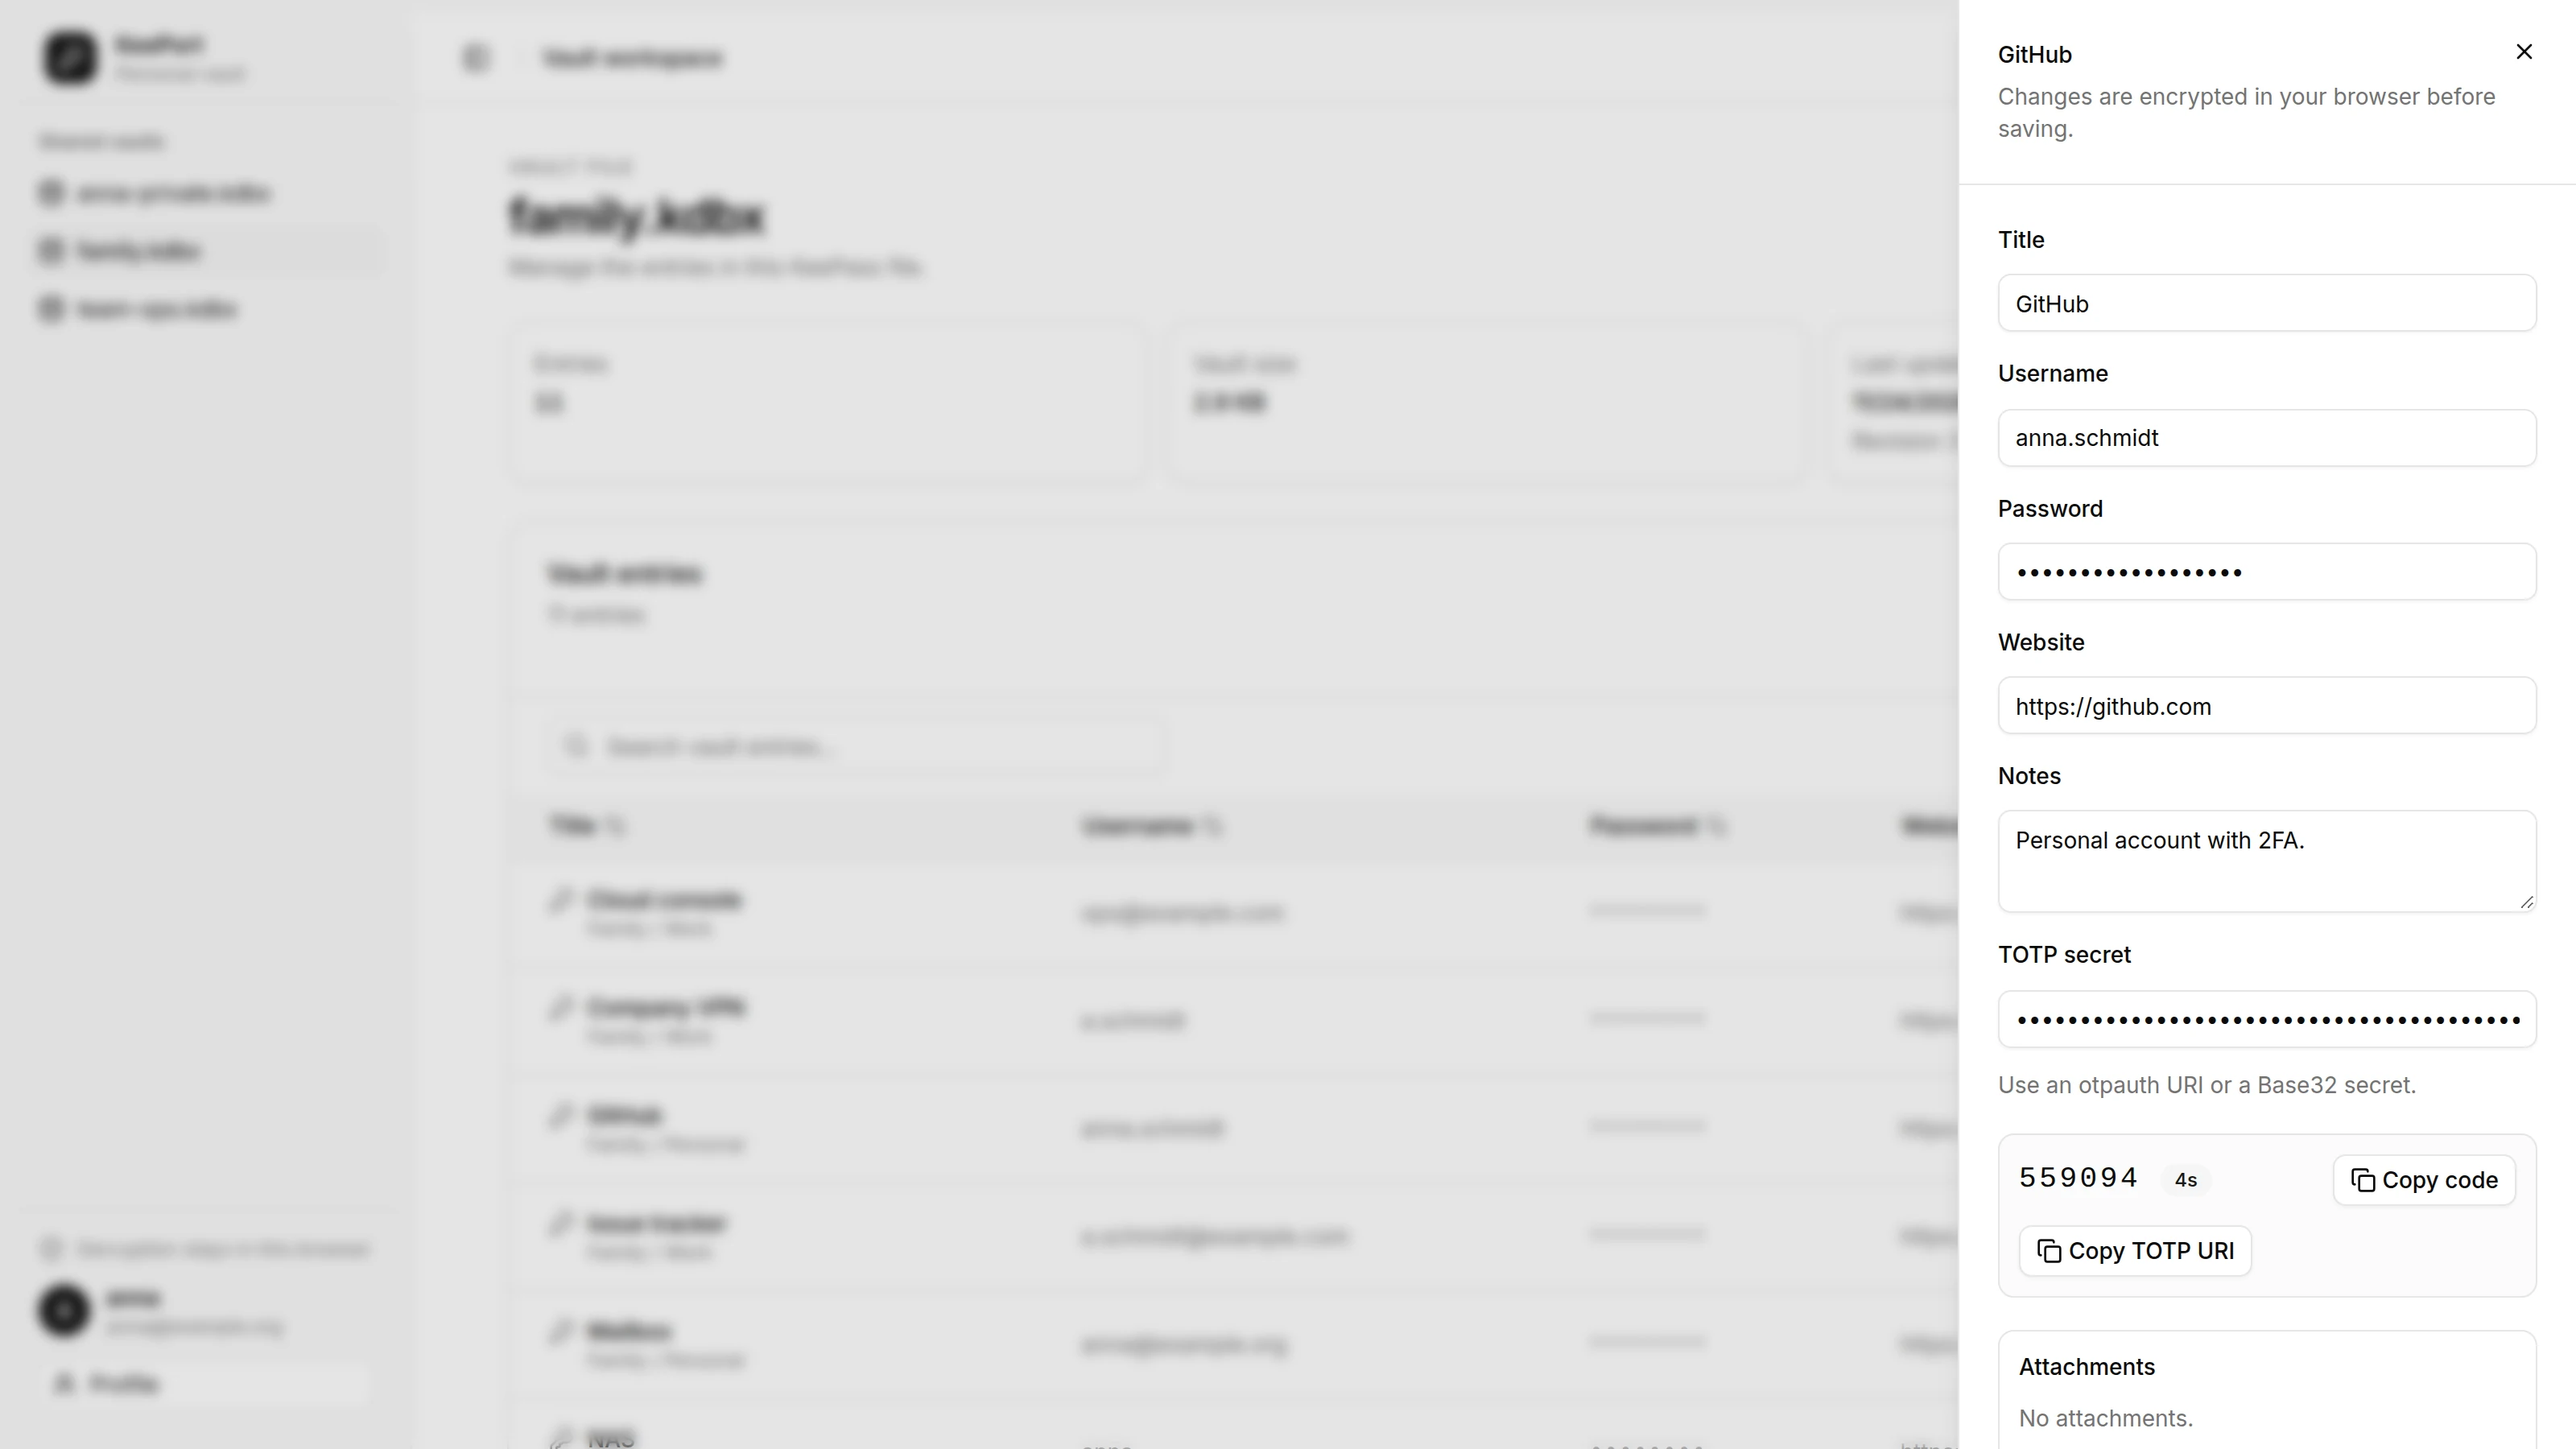
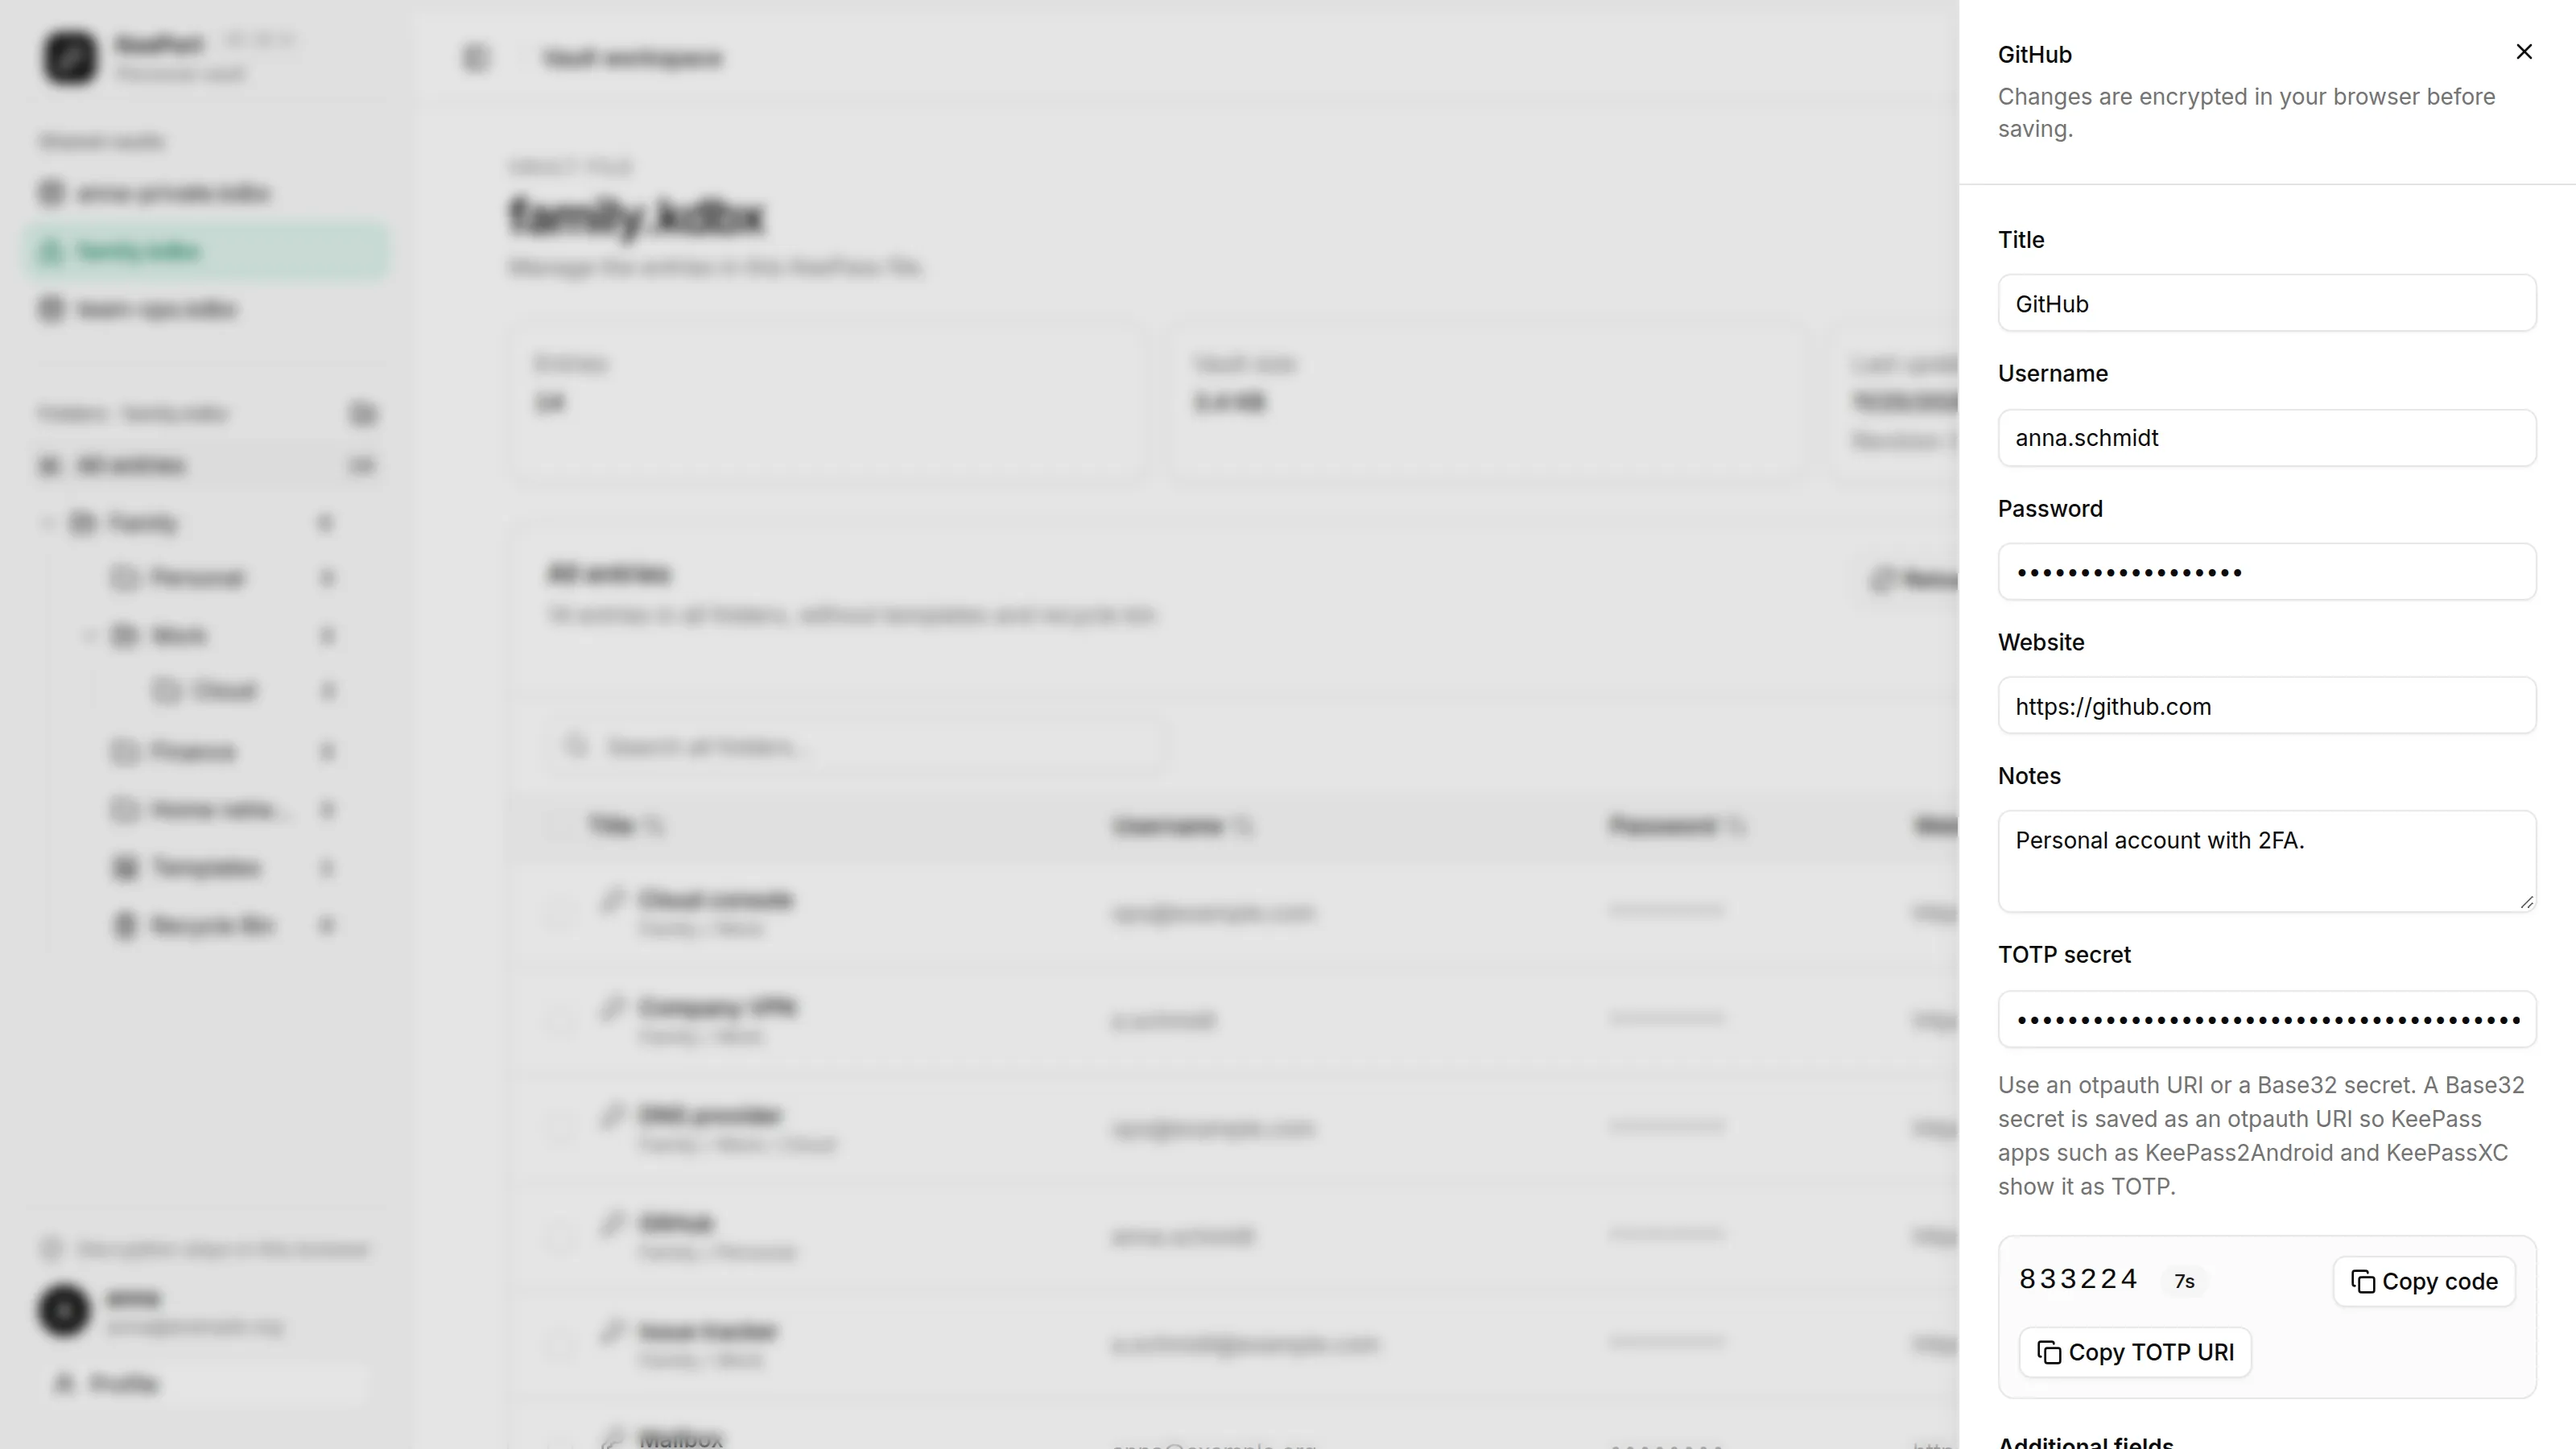
docs: refresh README screenshots and close the dashboard plan

diff --git a/README.md b/README.md
@@ -17,7 +17,7 @@
 
 <picture>
   <source media="(prefers-color-scheme: dark)" srcset="docs/images/vault-entries-dark.webp">
-  <img src="docs/images/vault-entries-light.webp" alt="KeePort web vault showing the unlocked family.kdbx with its entries" width="100%">
+  <img src="docs/images/vault-entries-light.webp" alt="KeePort web vault with the unlocked family.kdbx, its folder tree and entries" width="100%">
 </picture>
 
 </div>
@@ -61,6 +61,22 @@ KeePass files are great: open format, strong encryption, dozens of apps. Keeping
         <img src="docs/images/vault-entry-light.webp" alt="Entry details with live TOTP code, decrypted only in the browser">
       </picture>
       <p align="center"><b>Entry details & TOTP</b><br><sub>Edit entries and copy one-time codes — decrypted only in your browser.</sub></p>
+    </td>
+    <td width="50%">
+      <picture>
+        <source media="(prefers-color-scheme: dark)" srcset="docs/images/vault-card-dark.webp">
+        <img src="docs/images/vault-card-light.webp" alt="A KeePass2Android credit card with its template fields">
+      </picture>
+      <p align="center"><b>Templates & custom fields</b><br><sub>Credit cards and other KeePass2Android templates show their own fields.</sub></p>
+    </td>
+  </tr>
+  <tr>
+    <td width="50%">
+      <picture>
+        <source media="(prefers-color-scheme: dark)" srcset="docs/images/admin-dashboard-dark.webp">
+        <img src="docs/images/admin-dashboard-light.webp" alt="Admin dashboard with status, sign-ins and WebDAV activity">
+      </picture>
+      <p align="center"><b>Admin dashboard</b><br><sub>Status, storage, sign-ins and sync activity at a glance.</sub></p>
     </td>
     <td width="50%">
       <picture>

diff --git a/docs/plans/closed/2026-11-23-admin-dashboard.md b/docs/plans/closed/2026-11-23-admin-dashboard.md
@@ -1,7 +1,7 @@
 # KeePort – Plan: Admin-Dashboard
 
 - **Datum:** 2026-11-23
-- **Status:** umgesetzt (2026-11-25), Zielversion 0.10.0, Abnahme auf der NAS ausstehend
+- **Status:** abgeschlossen (2026-11-25), ausgeliefert in 0.10.0
 - **Ziel:** Nach dem Admin-Login auf einen Blick sehen, ob KeePort erreichbar ist, welcher Build läuft und wie viele Tresore, Nutzerkonten und fehlgeschlagene Anmeldungen es gibt.
 
 ## Ausgangslage
@@ -79,3 +79,14 @@ Ports werden als Ports **im Container** beschriftet. Die Host-Ports aus der `.en
 - Geprüft:
   - Backend-Tests: Summen mit gelöschtem Tresor, Konfliktkopie und deaktiviertem Konto; Anmeldezähler je Kanal und Ergebnis; Zugriff anonym und als Vault-Nutzer abgelehnt; keine Passwörter in der Antwort; Zeitfenster 24 h und 7 Tage an den Grenzen; Bereinigung nach 30 Tagen; Zähler überstehen den Neustart.
   - Browser-Test in einer Testinstanz: Das Dashboard öffnet als Erstes und ist in der Sidebar gewählt. Zähler, System- und Zugangsdaten werden angezeigt, Refresh und Navigation funktionieren, hell und dunkel, mobil ohne waagrechtes Scrollen.
+
+## Abnahme (2026-11-25, Sascha, Synology mit 0.10.0)
+
+- Nach der Anmeldung öffnet sich das Dashboard und ist in der Sidebar gewählt.
+- Die Anzeige stimmt:
+  - Docker erkannt, Alpine Linux, .NET 8.0.34
+  - Container-IP 172.22.0.2, Ports 8080/8081
+  - Admin-HTTPS mit Fingerabdruck und Ablaufdatum
+  - Proxys „loopback, 172.22.0.1 (gateway)“
+- Eine fehlgeschlagene Admin-Anmeldung wird gezählt und unter „Needs attention“ gemeldet.
+- 62 WebDAV-Anfragen von KeePass2Android, 0 Fehler. Die 401-Anmeldeaufrufe zählen nicht als Fehler.

diff --git a/CHANGELOG.md b/CHANGELOG.md
@@ -5,6 +5,16 @@ All notable changes to this project will be documented in this file.
 The format is based on [Keep a Changelog](https://keepachangelog.com/en/1.1.0/),
 and this project adheres to [Semantic Versioning](https://semver.org/spec/v2.0.0.html).
 
+## [0.10.1] - 2026-11-25
+
+### Fixed
+
+- Since 0.9.0 the live TOTP code with its countdown and copy buttons appeared below the additional fields and the expiry date, so it was often out of view. It is shown directly below the TOTP field again.
+
+### Changed
+
+- The README screenshots show the current version: the folder tree in the web vault, a KeePass2Android credit card with its template fields, and the admin dashboard.
+
 ## [0.10.0] - 2026-11-25
 
 ### Added
@@ -234,6 +244,7 @@ First beta release.
 - Login and setup share a configurable per-IP rate limit; session checks and sign-out are exempt. WebDAV has a separate configurable limit applied before authentication.
 - Admin accounts can only sign in to the Admin console; Vault and WebDAV require a separate user account. Admin sessions are scoped to the Admin API, so existing admins need to sign in again after updating.
 
+[0.10.1]: https://github.com/madcoda9000/KeePort/compare/v0.10.0...v0.10.1
 [0.10.0]: https://github.com/madcoda9000/KeePort/compare/v0.9.0...v0.10.0
 [0.9.0]: https://github.com/madcoda9000/KeePort/compare/v0.8.0...v0.9.0
 [0.8.0]: https://github.com/madcoda9000/KeePort/compare/v0.7.2...v0.8.0
